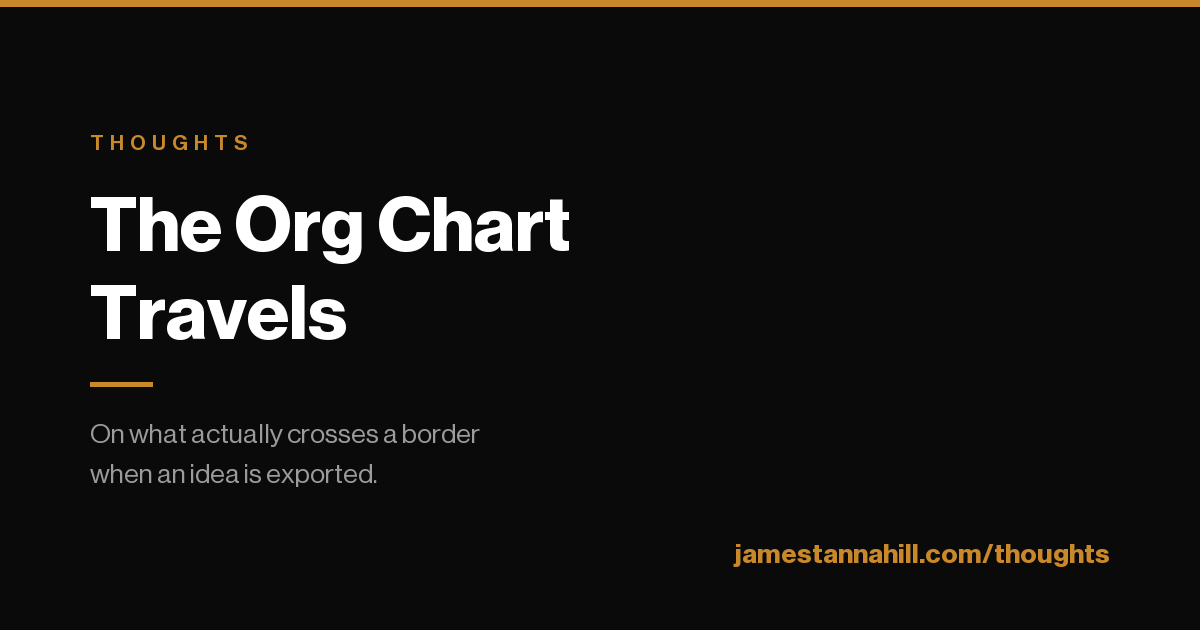
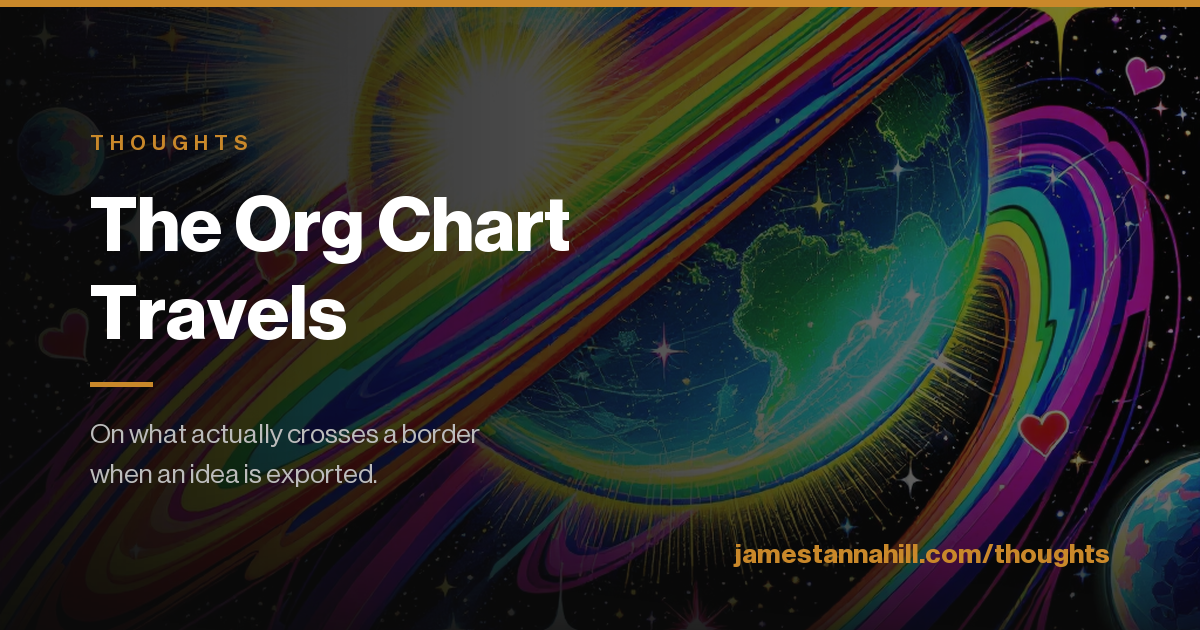
feat: Peter Max plates for The Org Chart Travels
Pinned a Peter Max run through art-daily-pipeline (run 2026-08-04-193850)
since no run in the archive had used that lens. Earth ringed in neon opens
the essay, the canyon landscape with Earth small in the sky sits under the
Mars section, a third piece blends into the OG card, and a fourth runs as
the index card. 25 placements across the section, still no repeats.

Also restores the three blended OG cards that the older flat generator
overwrote in public/ during the interim publish.

diff --git a/scripts/gen-og-thoughts.py b/scripts/gen-og-thoughts.py
@@ -164,3 +164,12 @@ card(
     ["On the staff function that must", "manufacture its own demand."],
     "jamestannahill.com/thoughts",
 )
+
+card(
+    "og-org-chart-travels.png",
+    "pm-region-30n-150e.png",
+    "Thoughts",
+    ["The Org Chart", "Travels"],
+    ["On what actually crosses a border", "when an idea is exported."],
+    "jamestannahill.com/thoughts",
+)
